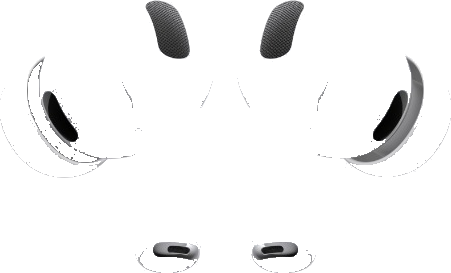
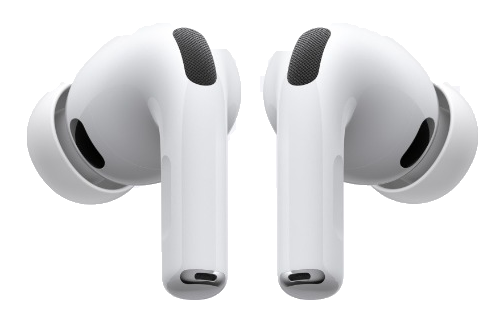
Add files via upload

diff --git a/FLINN-IPHONES-UPLOAD-GITHUB/public/index.html b/FLINN-IPHONES-UPLOAD-GITHUB/public/index.html
@@ -129,18 +129,29 @@
           <span class="font-mono font-black text-[10px] sm:text-xs tracking-wider">ADMIN</span>
         </a>
 
-        <!-- 🔗 Instagram Oficial (Link camuflado preparado) -->
+        <!-- 🔗 Instagram Oficial -->
         <a 
           id="instagram-link" 
           href="https://www.instagram.com/flinn.iphones?stkn=czJxOTVieGU5dXRy&utm_source=qr" 
           target="_blank" 
           rel="noopener noreferrer" 
-          title="Instagram Oficial"
+          title="Instagram Oficial (@flinn.iphones)"
           data-camouflaged-instagram="true"
-          class="hidden sm:flex items-center gap-1.5 px-3 py-2 rounded-xl bg-gradient-to-tr from-pink-500/15 to-purple-500/15 border border-pink-500/30 text-pink-300 hover:text-white hover:border-pink-500/60 transition text-xs font-semibold shrink-0"
+          class="flex items-center gap-1.5 px-2.5 sm:px-3 py-1.5 sm:py-2 rounded-xl bg-gradient-to-tr from-pink-500/15 via-purple-500/15 to-orange-500/10 border border-pink-500/40 text-pink-300 hover:text-white hover:border-pink-500/70 transition-all text-xs font-semibold shadow-neon-sm active:scale-95 shrink-0"
         >
-          <i data-lucide="instagram" class="w-3.5 h-3.5 text-pink-400"></i>
-          <span>Instagram</span>
+          <svg class="w-4 h-4 shrink-0" viewBox="0 0 24 24" fill="none">
+            <defs>
+              <linearGradient id="ig-grad-header" x1="0%" y1="100%" x2="100%" y2="0%">
+                <stop offset="0%" stop-color="#f09433"/>
+                <stop offset="25%" stop-color="#e6683c"/>
+                <stop offset="50%" stop-color="#dc2743"/>
+                <stop offset="75%" stop-color="#cc2366"/>
+                <stop offset="100%" stop-color="#bc1888"/>
+              </linearGradient>
+            </defs>
+            <path d="M12 2.163c3.204 0 3.584.012 4.85.07 3.252.148 4.771 1.691 4.919 4.919.058 1.265.069 1.645.069 4.849 0 3.205-.012 3.584-.069 4.849-.149 3.225-1.664 4.771-4.919 4.919-1.266.058-1.644.07-4.85.07-3.204 0-3.584-.012-4.849-.07-3.26-.149-4.771-1.699-4.919-4.92-.058-1.265-.07-1.644-.07-4.849 0-3.204.013-3.583.07-4.849.149-3.227 1.664-4.771 4.919-4.919 1.266-.057 1.645-.069 4.849-.069zm0-2.163c-3.259 0-3.667.014-4.947.072-4.358.2-6.78 2.618-6.98 6.98-.059 1.281-.073 1.689-.073 4.948 0 3.259.014 3.668.072 4.948.2 4.358 2.618 6.78 6.98 6.98 1.281.058 1.689.072 4.948.072 3.259 0 3.668-.014 4.948-.072 4.354-.2 6.782-2.618 6.979-6.98.059-1.28.073-1.689.073-4.948 0-3.259-.014-3.667-.072-4.947-.196-4.354-2.617-6.78-6.979-6.98-1.281-.059-1.69-.073-4.949-.073zm0 5.838c-3.403 0-6.162 2.759-6.162 6.162s2.759 6.163 6.162 6.163 6.162-2.759 6.162-6.163c0-3.403-2.759-6.162-6.162-6.162zm0 10.162c-2.209 0-4-1.79-4-4 0-2.209 1.791-4 4-4s4 1.791 4 4c0 2.21-1.791 4-4 4zm6.406-11.845c-.796 0-1.441.645-1.441 1.44s.645 1.44 1.441 1.44c.795 0 1.439-.645 1.439-1.44s-.644-1.44-1.439-1.44z" fill="url(#ig-grad-header)"/>
+          </svg>
+          <span class="hidden md:inline font-bold">Instagram</span>
         </a>
 
         <!-- Botão WhatsApp Direto -->
@@ -191,8 +202,20 @@
       <a href="#faq" class="block text-slate-200 hover:text-brand-blue font-medium text-xs py-1.5 px-2">🛡 Garantia de 1 Ano & Dúvidas</a>
       
       <div class="pt-2 flex flex-col gap-2 border-t border-brand-border/60">
-        <a id="mobile-instagram-link" href="https://www.instagram.com/flinn.iphones?stkn=czJxOTVieGU5dXRy&utm_source=qr" target="_blank" class="w-full flex items-center justify-center gap-2 py-2 rounded-xl bg-pink-500/20 text-pink-300 border border-pink-500/30 text-xs font-semibold">
-          <i data-lucide="instagram" class="w-4 h-4"></i> Instagram Oficial
+        <a id="mobile-instagram-link" href="https://www.instagram.com/flinn.iphones?stkn=czJxOTVieGU5dXRy&utm_source=qr" target="_blank" class="w-full flex items-center justify-center gap-2 py-2.5 rounded-xl bg-gradient-to-r from-pink-500/20 to-purple-500/20 text-pink-200 border border-pink-500/40 text-xs font-bold shadow-neon-sm">
+          <svg class="w-4 h-4 shrink-0" viewBox="0 0 24 24" fill="none">
+            <defs>
+              <linearGradient id="ig-grad-header" x1="0%" y1="100%" x2="100%" y2="0%">
+                <stop offset="0%" stop-color="#f09433"/>
+                <stop offset="25%" stop-color="#e6683c"/>
+                <stop offset="50%" stop-color="#dc2743"/>
+                <stop offset="75%" stop-color="#cc2366"/>
+                <stop offset="100%" stop-color="#bc1888"/>
+              </linearGradient>
+            </defs>
+            <path d="M12 2.163c3.204 0 3.584.012 4.85.07 3.252.148 4.771 1.691 4.919 4.919.058 1.265.069 1.645.069 4.849 0 3.205-.012 3.584-.069 4.849-.149 3.225-1.664 4.771-4.919 4.919-1.266.058-1.644.07-4.85.07-3.204 0-3.584-.012-4.849-.07-3.26-.149-4.771-1.699-4.919-4.92-.058-1.265-.07-1.644-.07-4.849 0-3.204.013-3.583.07-4.849.149-3.227 1.664-4.771 4.919-4.919 1.266-.057 1.645-.069 4.849-.069zm0-2.163c-3.259 0-3.667.014-4.947.072-4.358.2-6.78 2.618-6.98 6.98-.059 1.281-.073 1.689-.073 4.948 0 3.259.014 3.668.072 4.948.2 4.358 2.618 6.78 6.98 6.98 1.281.058 1.689.072 4.948.072 3.259 0 3.668-.014 4.948-.072 4.354-.2 6.782-2.618 6.979-6.98.059-1.28.073-1.689.073-4.948 0-3.259-.014-3.667-.072-4.947-.196-4.354-2.617-6.78-6.979-6.98-1.281-.059-1.69-.073-4.949-.073zm0 5.838c-3.403 0-6.162 2.759-6.162 6.162s2.759 6.163 6.162 6.163 6.162-2.759 6.162-6.163c0-3.403-2.759-6.162-6.162-6.162zm0 10.162c-2.209 0-4-1.79-4-4 0-2.209 1.791-4 4-4s4 1.791 4 4c0 2.21-1.791 4-4 4zm6.406-11.845c-.796 0-1.441.645-1.441 1.44s.645 1.44 1.441 1.44c.795 0 1.439-.645 1.439-1.44s-.644-1.44-1.439-1.44z" fill="url(#ig-grad-header)"/>
+          </svg>
+          <span>Instagram Oficial (@flinn.iphones)</span>
         </a>
       </div>
     </div>
@@ -220,11 +243,11 @@
       <!-- Pricing Callout: Baseado exatamente na sua tabela -->
       <div class="inline-flex flex-col sm:flex-row items-center justify-center gap-1.5 sm:gap-4 px-5 py-2.5 rounded-2xl bg-black/60 border border-brand-blue/40 backdrop-blur-md mb-6 shadow-neon-sm">
         <div class="text-xs sm:text-sm text-slate-300">
-          A partir de <strong class="text-white text-lg sm:text-2xl font-mono ml-1 font-black">R$ 9.055,46</strong> à vista
+          A partir de <strong class="text-white text-lg sm:text-2xl font-mono ml-1 font-black">R$ 9.255,00</strong> à vista
         </div>
         <div class="hidden sm:block text-slate-600">|</div>
         <div class="text-xs sm:text-sm text-brand-blue font-bold">
-          ou em até <strong class="font-mono text-base sm:text-xl">12x de R$ 754,62</strong> <span class="text-cyan-400 font-semibold">sem juros</span>
+          ou em até <strong class="font-mono text-base sm:text-xl">12x de R$ 771,25</strong> <span class="text-cyan-400 font-semibold">sem juros</span>
         </div>
       </div>
 
@@ -266,10 +289,10 @@
             <span class="inline-block text-[10px] sm:text-xs text-white font-bold bg-brand-blue/20 border border-brand-blue/40 px-2.5 py-0.5 rounded-full mt-2">Azul Glacial</span>
           </div>
 
-          <!-- Preto Titânio (Right angle) -->
-          <div class="w-1/3 max-w-[190px] transform rotate-3 hover:rotate-0 hover:scale-105 transition-all duration-500 cursor-pointer text-center" onclick="openLightbox('/assets/ip18_black.png', 'iPhone 18 Pro Max - Preto Titânio')">
-            <img src="/assets/ip18_black.png" alt="iPhone 18 Purple" class="w-full h-auto drop-shadow-[0_20px_25px_rgba(0,0,0,0.8)] mx-auto">
-            <span class="block text-[10px] sm:text-xs text-slate-400 font-semibold mt-2">Preto Titânio</span>
+          <!-- Prata Titânio (Right angle) -->
+          <div class="w-1/3 max-w-[190px] transform rotate-3 hover:rotate-0 hover:scale-105 transition-all duration-500 cursor-pointer text-center" onclick="openLightbox('/assets/ip18_silver.png', 'iPhone 18 Pro Max - Prata Titânio')">
+            <img src="/assets/ip18_silver.png" alt="iPhone 18 Prata Titânio" class="w-full h-auto drop-shadow-[0_20px_25px_rgba(0,0,0,0.8)] mx-auto">
+            <span class="block text-[10px] sm:text-xs text-slate-400 font-semibold mt-2">Prata Titânio</span>
           </div>
         </div>
 
@@ -394,13 +417,17 @@
           <!-- Box 1: JBL Boombox 4 -->
           <div class="bg-brand-card border border-brand-border rounded-3xl p-5 flex flex-col sm:flex-row items-center gap-4">
             <img src="/assets/jbl-boombox4.webp" alt="JBL Boombox 4" class="w-28 h-28 object-contain shrink-0 cursor-pointer hover:scale-105 transition-transform" onclick="openLightbox('/assets/jbl-boombox4.webp', 'JBL Boombox 4 Camuflada')">
-            <div class="flex-1 text-center sm:text-left space-y-1">
+            <div class="flex-1 text-center sm:text-left space-y-1.5">
               <span class="text-[10px] font-bold text-brand-blue uppercase">Linha Áudio Premium</span>
               <h4 class="text-base sm:text-lg font-bold text-white">JBL Boombox 4 Camuflada</h4>
               <p class="text-xs text-slate-400">Até 34h de bateria, conexão Auracast e à prova d'água IP67.</p>
-              <div class="pt-2 flex items-center justify-center sm:justify-start gap-3">
-                <a href="https://wa.me/5516997655257?text=Ol%C3%A1%2C%20FLINN%20iPhones!%20Tenho%20interesse%20na%20JBL%20Boombox%204%20Camo%20vista%20no%20site." target="_blank" class="px-3.5 py-1.5 rounded-lg bg-white/10 hover:bg-brand-blue text-white text-xs font-bold transition flex items-center gap-1.5">
-                  <i data-lucide="message-circle" class="w-3 h-3"></i> Consultar Valor
+              <div class="pt-1 flex flex-col sm:flex-row items-center justify-between gap-3">
+                <div>
+                  <div class="text-base sm:text-lg font-black text-white font-mono">R$ 1.998<span class="text-xs text-slate-400 font-normal">,90</span></div>
+                  <div class="text-[11px] text-brand-blue font-semibold">12x de R$ 166,57 sem juros</div>
+                </div>
+                <a href="https://wa.me/5516997655257?text=Ol%C3%A1%2C%20FLINN%20iPhones!%20Tenho%20interesse%20na%20JBL%20Boombox%204%20Camo%20por%20R%24%201.998%2C90%20vista%20no%20site." target="_blank" class="px-4 py-2 rounded-xl bg-brand-blue hover:bg-brand-hover text-white text-xs font-bold transition flex items-center gap-1.5 shadow-neon-sm shrink-0">
+                  <i data-lucide="message-circle" class="w-3.5 h-3.5 fill-white"></i> Pedir no WhatsApp
                 </a>
               </div>
             </div>
@@ -408,7 +435,7 @@
 
           <!-- Box 2: Acessórios Originais Apple -->
           <div class="bg-brand-card border border-brand-border rounded-3xl p-5 flex flex-col sm:flex-row items-center gap-4">
-            <img src="/assets/airpods-pro.png" alt="AirPods Pro 2" class="w-28 h-28 object-contain shrink-0 cursor-pointer hover:scale-105 transition-transform" onclick="openLightbox('/assets/airpods-pro.png', 'AirPods Pro 2 Original Apple')">
+            <img src="/assets/airpods_earbuds.png" alt="AirPods Pro 2" class="w-28 h-28 object-contain shrink-0 cursor-pointer hover:scale-105 transition-transform" onclick="openLightbox('/assets/airpods_earbuds.png', 'AirPods Pro 2 Original Apple')">
             <div class="flex-1 text-center sm:text-left space-y-1">
               <span class="text-[10px] font-bold text-brand-blue uppercase">Originais Apple</span>
               <h4 class="text-base sm:text-lg font-bold text-white">AirPods Pro 2, Carregadores 20W & Cabos</h4>
@@ -464,7 +491,7 @@
           <div>
             <label class="block text-xs font-bold text-slate-300 uppercase mb-1.5">Qual modelo você quer pegar?</label>
             <select id="trade-target-phone" class="w-full bg-black/60 border border-brand-border rounded-xl px-4 py-2.5 text-xs sm:text-sm text-white focus:outline-none focus:border-brand-blue">
-              <option value="iPhone 18 Pro Max 256GB">iPhone 18 Pro Max 256GB (R$ 9.055,46)</option>
+              <option value="iPhone 18 Pro Max 256GB">iPhone 18 Pro Max 256GB (R$ 9.255,00)</option>
               <option value="iPhone 18 Pro Max 512GB">iPhone 18 Pro Max 512GB (R$ 9.700)</option>
               <option value="iPhone 18 Pro 256GB">iPhone 18 Pro 256GB (R$ 8.300)</option>
               <option value="iPhone 18 Pro 512GB">iPhone 18 Pro 512GB (R$ 8.800)</option>

diff --git a/FLINN-IPHONES-UPLOAD-GITHUB/public/script.js b/FLINN-IPHONES-UPLOAD-GITHUB/public/script.js
@@ -23,8 +23,8 @@ const PRODUCTS = [
     warranty: "1 Ano Garantia Apple",
     maxInstallments: 12,
     storages: [
-      { capacity: "256GB", price: 9055.46, formattedPrice: "R$ 9.055,46", installment: "12x de R$ 754,62" },
-      { capacity: "512GB", price: 9855.46, formattedPrice: "R$ 9.855,46", installment: "12x de R$ 821,28" }
+      { capacity: "256GB", price: 9255, formattedPrice: "R$ 9.255,00", installment: "12x de R$ 771,25" },
+      { capacity: "512GB", price: 9955, formattedPrice: "R$ 9.955,00", installment: "12x de R$ 829,58" }
     ],
     colors: [
       { name: "Bordô Metálico", hex: "#5c1d2e", image: "/assets/ip18_burgundy.png" },
@@ -45,8 +45,8 @@ const PRODUCTS = [
     warranty: "1 Ano Garantia Apple",
     maxInstallments: 12,
     storages: [
-      { capacity: "256GB", price: 9055.46, formattedPrice: "R$ 9.055,46", installment: "12x de R$ 754,62" },
-      { capacity: "512GB", price: 9655.46, formattedPrice: "R$ 9.655,46", installment: "12x de R$ 804,62" }
+      { capacity: "256GB", price: 9055, formattedPrice: "R$ 9.055,00", installment: "12x de R$ 754,58" },
+      { capacity: "512GB", price: 9755, formattedPrice: "R$ 9.755,00", installment: "12x de R$ 812,91" }
     ],
     colors: [
       { name: "Bordô Metálico", hex: "#5c1d2e", image: "/assets/ip18_burgundy.png" },
@@ -178,9 +178,9 @@ const PRODUCTS = [
       { capacity: "49mm GPS + Cell", price: 3900, formattedPrice: "R$ 3.900,00", installment: "6x de R$ 650,00" }
     ],
     colors: [
+      { name: "Preto Oceano (Titânio)", hex: "#1e293b", image: "/assets/clean_watch_crop.png" },
       { name: "Pulseira Laranja Titânio", hex: "#ff6200", image: "/assets/watch_orange.png" },
-      { name: "Pulseira Azul Oceano", hex: "#2563eb", image: "/assets/watch_blue.png" },
-      { name: "Pulseira Meia-Noite Preta", hex: "#1e293b", image: "/assets/watch_black.png" }
+      { name: "Pulseira Azul Oceano", hex: "#2563eb", image: "/assets/watch_blue.png" }
     ],
     selectedStorageIndex: 0,
     selectedColorIndex: 0
@@ -195,7 +195,7 @@ const PRODUCTS = [
     warranty: "Garantia Oficial",
     maxInstallments: 12,
     storages: [
-      { capacity: "Original Lacrada", price: null, formattedPrice: "Sob Consulta", installment: "Consulte Parcelamento" }
+      { capacity: "Original Lacrada", price: 1998.90, formattedPrice: "R$ 1.998,90", installment: "12x de R$ 166,57" }
     ],
     colors: [
       { name: "Camuflado Especial", hex: "#4e5340", image: "/assets/jbl-boombox4.webp" }
